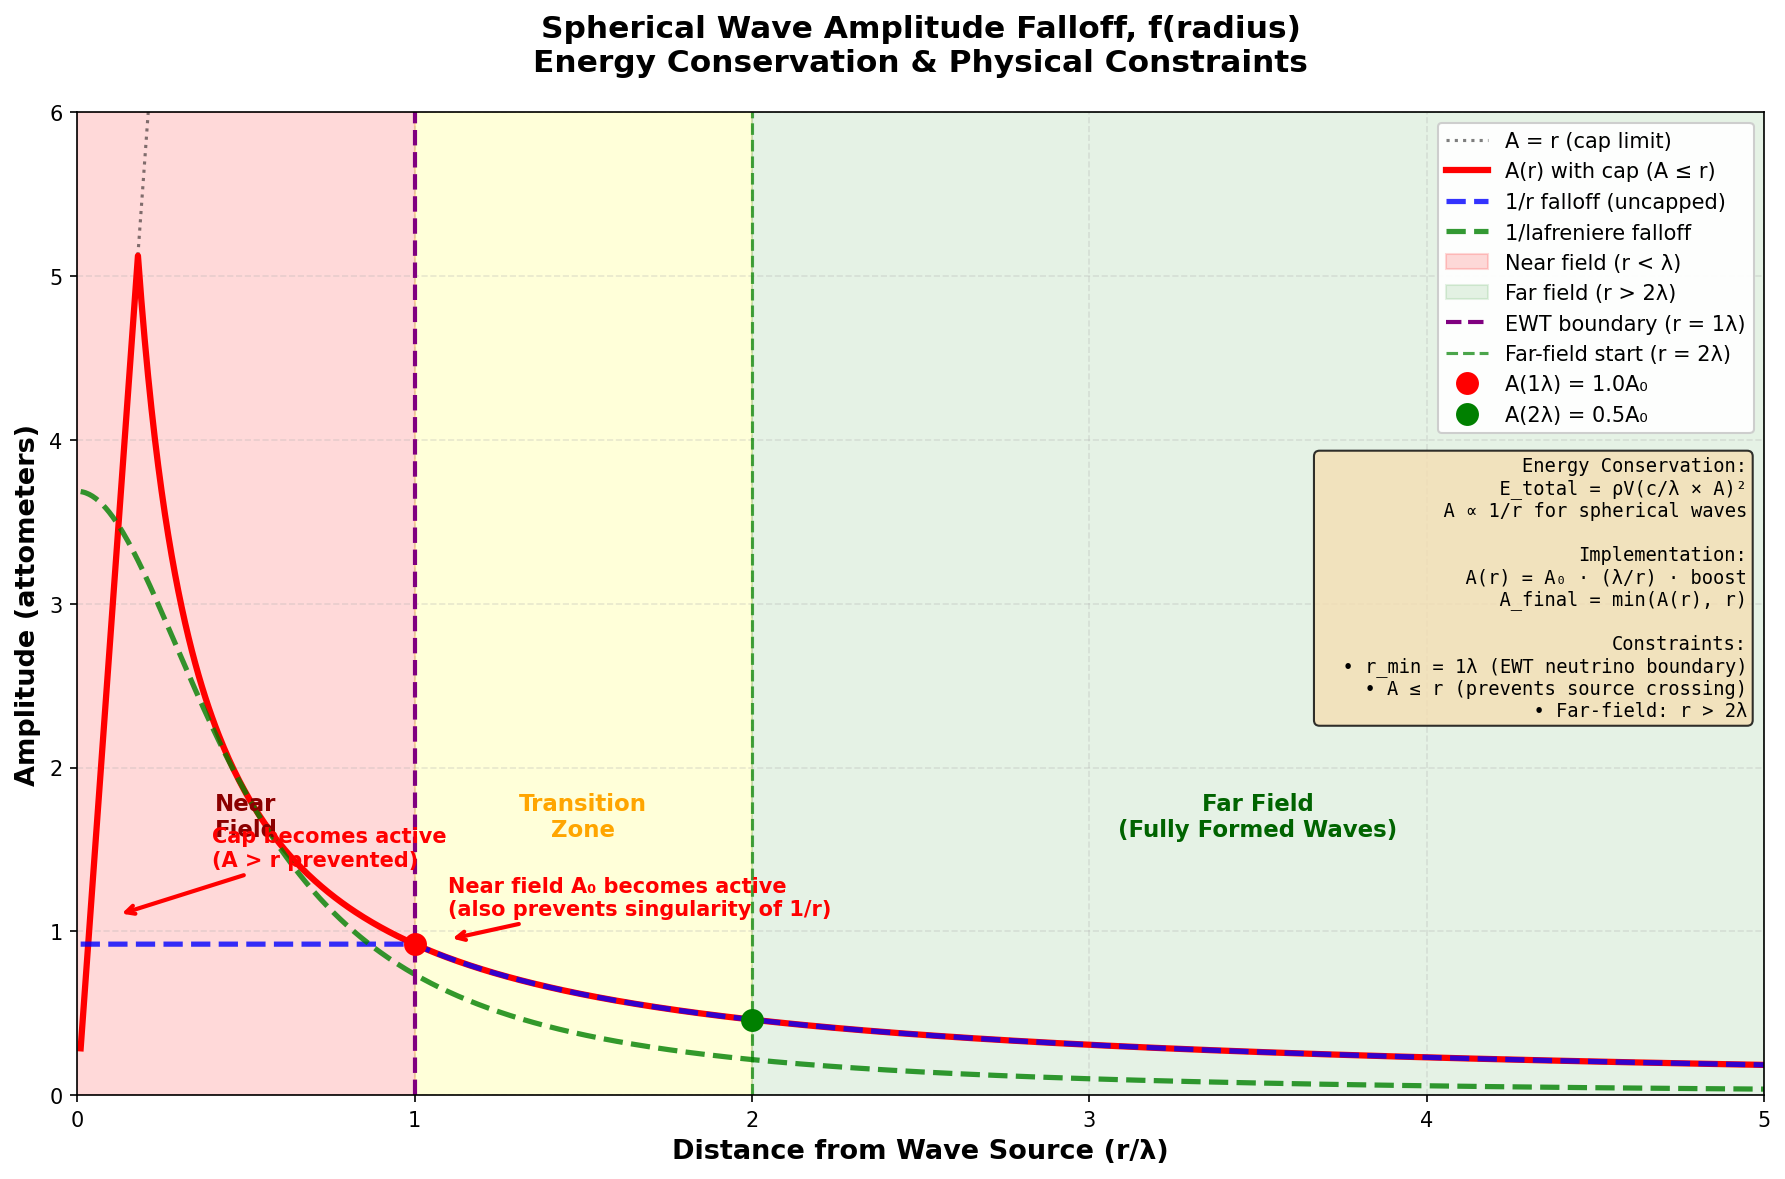
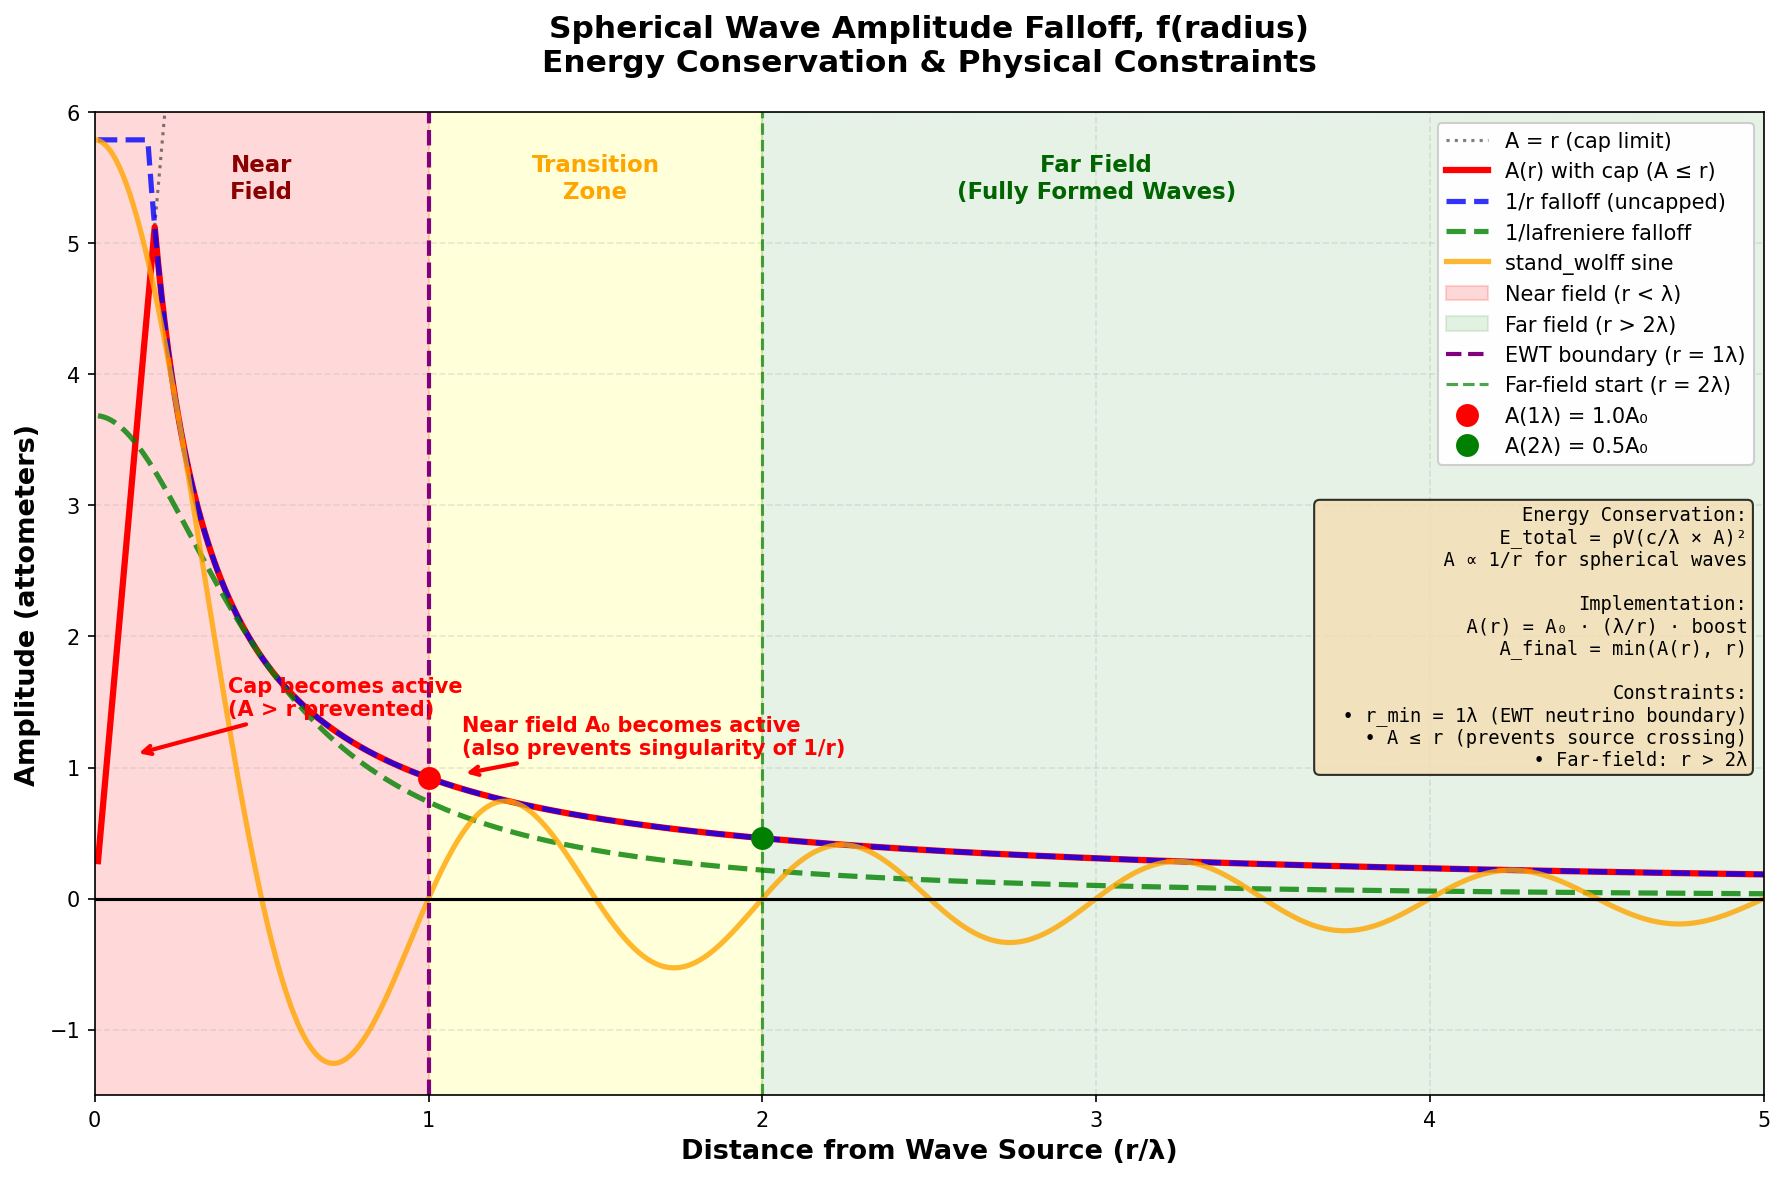
Add stand_wolff sine amplitude model to plot
Introduced a new sine_stand_wolff amplitude function and included its curve in the amplitude vs. radius plot. Refactored amplitude function signatures for consistency, updated plot annotations, and improved axis scaling and labeling for clarity.

diff --git a/openwave/xperiments/4_L0_granule_based/_research/wave_spherical_plot.py b/openwave/xperiments/4_L0_granule_based/_research/wave_spherical_plot.py
@@ -20,12 +20,10 @@ Notation (from 00_wave_properties.md):
 
 import numpy as np
 import matplotlib.pyplot as plt
-from matplotlib.patches import Rectangle
-import matplotlib.patches as mpatches
 from pathlib import Path
 
 # Import actual OpenWave constants
-from openwave.common import constants
+from openwave.common import colormap, constants
 
 # ================================================================
 # Energy Wave Parameters (from constants.py)
@@ -46,7 +44,7 @@ wavelength_am = wavelength / constants.ATTOMETER  # attometers
 # ================================================================
 
 
-def amplitude_1_over_lafreniere(r, A0_val=A0, r_ref=r_reference):
+def sine_stand_wolff(r, A0_val=A0):
     """
     Far-field amplitude falloff: A(r) = A₀ · (λ/r)
 
@@ -61,11 +59,28 @@ def amplitude_1_over_lafreniere(r, A0_val=A0, r_ref=r_reference):
     Returns:
         Amplitude at distance r (meters)
     """
-    # Prevent division by zero
-    # r_safe = np.maximum(r, r_ref)
-    # amp_falloff = A0_val * (r_ref / r_safe)
 
-    # amp_falloff = A0_val * np.sin(k * r) / r
+    amp_lafrenierewolff = A0_val * np.cos(np.pi * 0) * np.sin(k * r - np.pi * 0) / r * wavelength
+
+    return amp_lafrenierewolff
+
+
+def amplitude_1_over_lafreniere(r, A0_val=A0):
+    """
+    Far-field amplitude falloff: A(r) = A₀ · (λ/r)
+
+    Energy conservation for spherical waves requires A ∝ 1/r
+    Valid in far-field region (r > 2λ from wave source)
+
+    Args:
+        r: Distance from wave source (meters)
+        A0_val: Base amplitude A₀ (meters)
+        r_ref: Reference radius (meters), typically 1λ
+
+    Returns:
+        Amplitude at distance r (meters)
+    """
+
     amp_falloff_lafreniere = (
         A0_val * wavelength / ((k * r + (np.pi / 2) * (1 - k * r / np.pi) ** 2) / k)
     )
@@ -73,7 +88,7 @@ def amplitude_1_over_lafreniere(r, A0_val=A0, r_ref=r_reference):
     return amp_falloff_lafreniere
 
 
-def amplitude_1_over_r(r, A0_val=A0, r_ref=r_reference):
+def amplitude_1_over_r(r, A0_val=A0):
     """
     Far-field amplitude falloff: A(r) = A₀ · (λ/r)
 
@@ -88,11 +103,7 @@ def amplitude_1_over_r(r, A0_val=A0, r_ref=r_reference):
     Returns:
         Amplitude at distance r (meters)
     """
-    # Prevent division by zero
-    # r_safe = np.maximum(r, r_ref)
-    # amp_falloff = A0_val * (r_ref / r_safe)
 
-    # amp_falloff = A0_val * np.sin(k * r) / r
     amp_falloff = A0_val * wavelength / r
 
     return amp_falloff
@@ -114,13 +125,13 @@ def amplitude_1_over_original(r, A0_val=A0, r_ref=r_reference):
         Amplitude at distance r (meters)
     """
     # Prevent division by zero
-    r_safe = np.maximum(r, r_ref)
+    r_safe = np.maximum(r, r_ref / (2 * np.pi))
     amp_falloff = A0_val * (r_ref / r_safe)
 
     return amp_falloff
 
 
-def amplitude_with_cap(r, A0_val=A0, r_ref=r_reference):
+def amplitude_with_cap(r, A0_val=A0):
     """
     Amplitude with physical cap: A(r) ≤ r
 
@@ -140,7 +151,7 @@ def amplitude_with_cap(r, A0_val=A0, r_ref=r_reference):
         Capped amplitude at distance r (meters)
     """
     # Calculate 1/r amplitude
-    A_uncapped = amplitude_1_over_r(r, A0_val, r_ref)
+    A_uncapped = amplitude_1_over_r(r, A0_val)
 
     # Apply cap: A ≤ r
     A_capped = np.minimum(A_uncapped, r)
@@ -160,6 +171,7 @@ r = np.linspace(0.01 * wavelength, r_max, 1000)
 # Calculate amplitudes
 A_uncapped = amplitude_1_over_original(r)
 A_lafreniere = amplitude_1_over_lafreniere(r)
+stand_wolff = sine_stand_wolff(r)
 A_capped = amplitude_with_cap(r)
 
 # Create figure
@@ -172,6 +184,7 @@ fig, ax = plt.subplots(figsize=(12, 8))
 # Convert to attometers for y-axis
 A_uncapped_am = A_uncapped / constants.ATTOMETER
 A_lafreniere_am = A_lafreniere / constants.ATTOMETER
+stand_wolff_am = stand_wolff / constants.ATTOMETER
 A_capped_am = A_capped / constants.ATTOMETER
 r_am = r / constants.ATTOMETER
 
@@ -181,15 +194,27 @@ ax.plot(r / wavelength, r_am, "k:", linewidth=1.5, alpha=0.5, label="A = r (cap 
 # Capped amplitude (actual implementation)
 ax.plot(r / wavelength, A_capped_am, "r-", linewidth=3, label="A(r) with cap (A ≤ r)")
 
-# 1/r amplitude (without cap) - plot last so it's visible on top
+# 1/r amplitude (without cap)
 ax.plot(
     r / wavelength, A_uncapped_am, "b--", linewidth=2.5, alpha=0.8, label="1/r falloff (uncapped)"
 )
 
-# 1/lafreniere amplitude (without cap) - plot last so it's visible on top
+# 1/lafreniere amplitude (without cap)
 ax.plot(
     r / wavelength, A_lafreniere_am, "g--", linewidth=2.5, alpha=0.8, label="1/lafreniere falloff"
 )
+
+# Sine stand_wolff (without cap)
+ax.plot(
+    r / wavelength,
+    stand_wolff_am,
+    "orange",
+    linewidth=2.5,
+    alpha=0.8,
+    label="stand_wolff sine",
+)
+
+plt.axhline(y=0, color=colormap.BLACK[1], linestyle="-", alpha=1)
 
 # ================================================================
 # Mark Near-Field / Far-Field Regions
@@ -236,7 +261,7 @@ ax.plot(2.0, A_at_2lambda_am, "go", markersize=10, label=f"A(2λ) = {A_at_2lambd
 # Annotate regions (adjusted for 2 am y-axis scale)
 ax.text(
     0.5,
-    1.7,
+    5.5,
     "Near\nField",
     ha="center",
     va="center",
@@ -246,7 +271,7 @@ ax.text(
 )
 ax.text(
     1.5,
-    1.7,
+    5.5,
     "Transition\nZone",
     ha="center",
     va="center",
@@ -257,8 +282,8 @@ ax.text(
 # Far field label position: centered between 2λ and r_max
 far_field_center = (2.0 + r_max_lambda) / 2
 ax.text(
-    far_field_center,
-    1.7,
+    3.0,
+    5.5,
     "Far Field\n(Fully Formed Waves)",
     ha="center",
     va="center",
@@ -310,7 +335,7 @@ ax.set_title(
 
 # Set axis limits
 ax.set_xlim(0, r_max / wavelength)
-ax.set_ylim(0, 6.0)  # 6 attometers max
+ax.set_ylim(-1.5, 6.0)  # 6 attometers max
 
 # Set x-axis tick marks at 1λ spacing
 ax.set_xticks(np.arange(0, r_max / wavelength + 1, 1.0))
@@ -341,7 +366,7 @@ physics_text = (
 props = dict(boxstyle="round", facecolor="wheat", alpha=0.8)
 ax.text(
     0.99,
-    0.65,
+    0.60,
     physics_text,
     transform=ax.transAxes,
     fontsize=9,
@@ -362,8 +387,8 @@ script_dir = Path(__file__).parent
 output_path = script_dir / "images" / "wave_amplitude_vs_radius.png"
 
 plt.savefig(output_path, dpi=150, bbox_inches="tight")
-print(f"✓ Plot saved: {output_path}")
+print(f"\n✓ Plot saved: {output_path}")
 print(f"✓ Using A₀ = {A0:.3e} m")
-print(f"✓ Using λ = {wavelength:.3e} m")
+print(f"✓ Using λ = {wavelength:.3e} m\n")
 
 plt.show()
